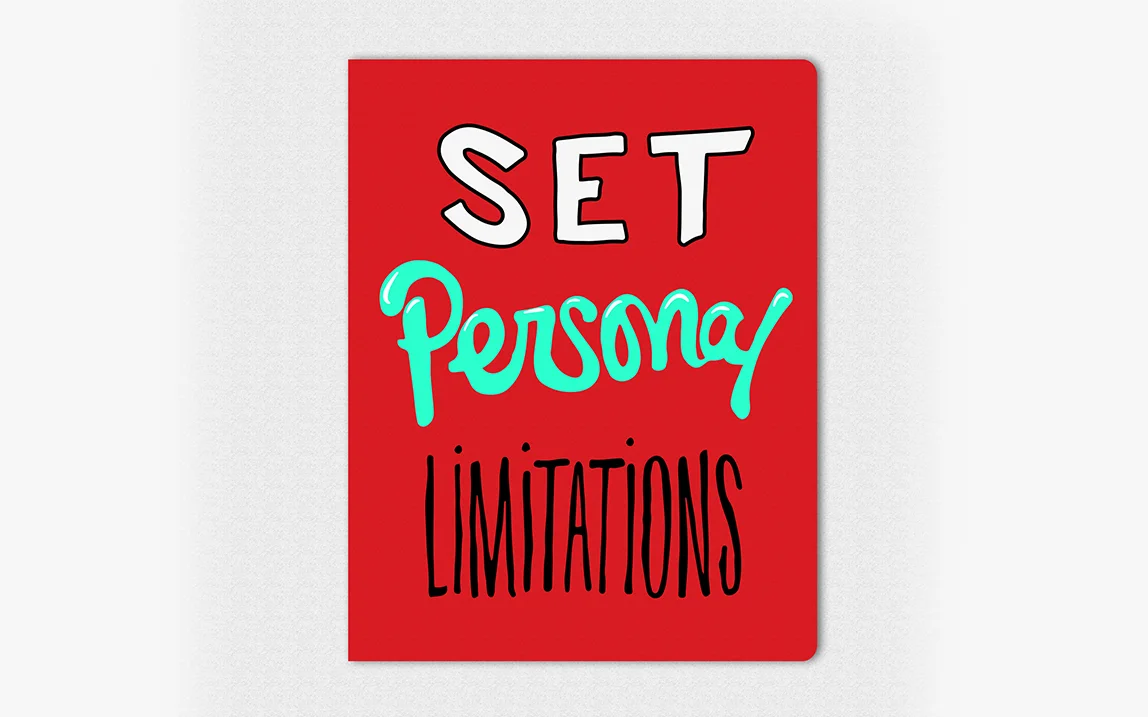
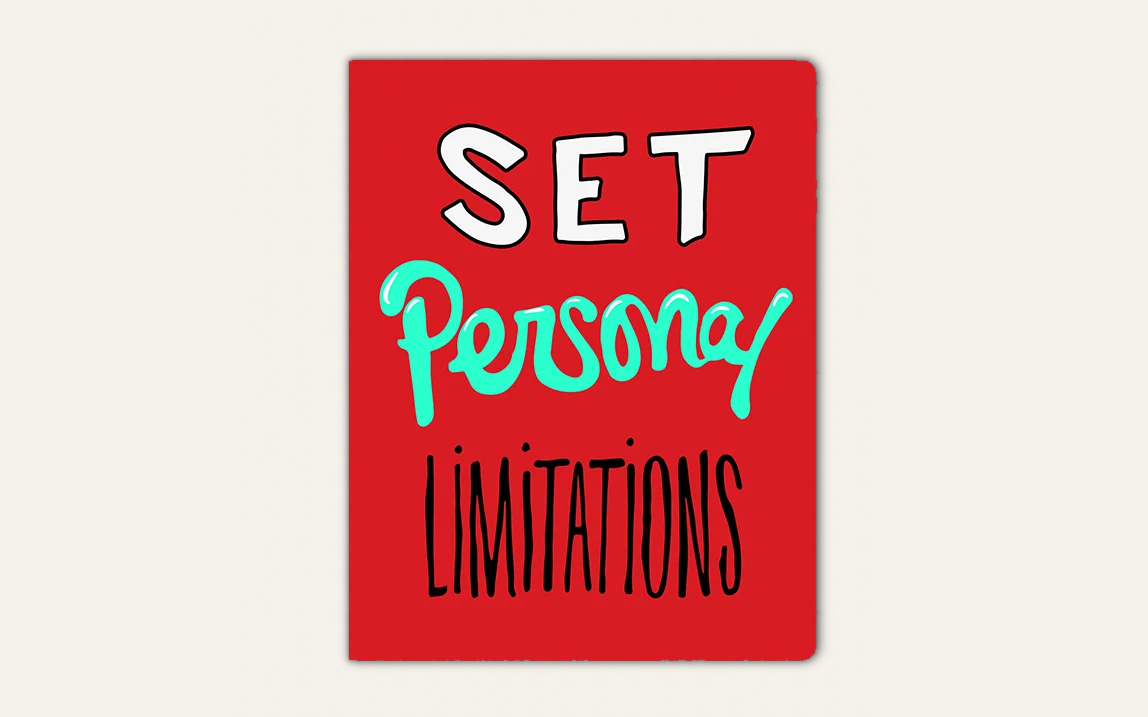
Notes band: blend photo backdrop into the band colour
Claude-Session: https://claude.ai/code/session_01KtqpWn2cpZZ1p37ZCzTow5

diff --git a/index.html b/index.html
@@ -91,7 +91,7 @@
       </div>
       <div class="band__aside" aria-hidden="true"></div>
     </a>
-    <a class="band band--light band--product" href="projects/notes.html" style="--backdrop: #f7f7f7; --title-em: 2.4; --product-scale: 1; --band-img-opacity: 1">
+    <a class="band band--light band--product" href="projects/notes.html" style="--backdrop: var(--white); --title-em: 2.4; --product-scale: 1; --band-img-opacity: 1">
       <span class="band__layer" aria-hidden="true"><img class="band__product" src="assets/projects/notes.png" alt="" width="1148" height="717"></span>
       <div class="band__col">
         <h2 class="band__title">NOTES</h2>
